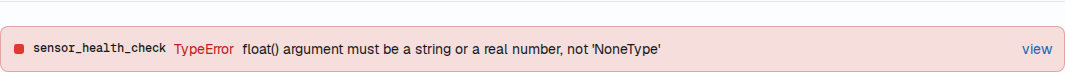
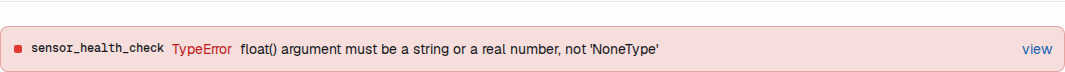
refactor(ui): use shared constants and tokens in the error spotlight (#1728)
## Summary

Mechanical hygiene pass on the app-detail error spotlight, resolving the
four findings from the quality scan of `error-spotlight.tsx`. No
behavior change — the only rendered difference is a 12px → 10px status
dot, matching every other row-level `StatusShape` call site.

## What changed

**Magic number → shared constant.** `SpotlightEntry` passed a raw
`size={12}` to `StatusShape`. All eight other row-level call sites
import `STATUS_DOT_SIZE` (value `10`) from `utils/constants.ts`, and no
commit records the `12` as a deliberate choice for the spotlight context
— so this reconciles the drift rather than naming it as a variant. The
affected doc screenshot
(`docs/_static/web_ui_detail_error_spotlight.png`) is regenerated via
`scripts/capture_screenshots.py --only web_ui_detail_error_spotlight`.

**Duplicated color → CSS custom property.** `color-mix(in srgb,
var(--destructive) 30%, transparent)` appeared verbatim as an inline
Tailwind arbitrary value in two places. It now lives in `global.css` as
`--err-border`, exposed to component code through the shadcn-named alias
`--destructive-border`, alongside the existing `--destructive-bg`. The
issue named `error-banner.tsx` as the second site; that file has since
been refactored to delegate its border to `AlertShell`, so the shared
token is referenced from `alert-shell.tsx` and `error-spotlight.tsx`.
`AlertShell`'s comment explaining why `danger` and `warning` differ in
[…]

Changed region(s): [[0.0, 0.5833, 0.6197, 0.7778]]

diff --git a/frontend/src/components/app-detail/overview-tab.test.tsx b/frontend/src/components/app-detail/overview-tab.test.tsx
@@ -138,8 +138,8 @@ describe("OverviewTab — Error Spotlight", () => {
       createListener({ listener_id: 3, failed: 1 }),
     ];
     const { getAllByTestId, queryByTestId } = renderOverviewTab({ listeners, jobs: [] });
-    expect(getAllByTestId(/^overview-spotlight-entry-/).length).toBe(3);
-    expect(queryByTestId("overview-spotlight-show-more")).toBeNull();
+    expect(getAllByTestId(/^overview-error-spotlight-entry-/).length).toBe(3);
+    expect(queryByTestId("overview-error-spotlight-show-more")).toBeNull();
   });
 
   it("shows 3 expanded entries and a 'show N more' button when more than 3 are failing", () => {
@@ -152,8 +152,8 @@ describe("OverviewTab — Error Spotlight", () => {
     ];
     const { getAllByTestId, getByTestId } = renderOverviewTab({ listeners, jobs: [] });
     // Initially only 3 visible
-    expect(getAllByTestId(/^overview-spotlight-entry-/).length).toBe(3);
-    const btn = getByTestId("overview-spotlight-show-more");
+    expect(getAllByTestId(/^overview-error-spotlight-entry-/).length).toBe(3);
+    const btn = getByTestId("overview-error-spotlight-show-more");
     expect(btn.textContent).toContain("2");
   });
 
@@ -166,9 +166,9 @@ describe("OverviewTab — Error Spotlight", () => {
       createListener({ listener_id: 4, failed: 1 }),
     ];
     const { getAllByTestId, getByTestId } = renderOverviewTab({ listeners, jobs: [] });
-    expect(getAllByTestId(/^overview-spotlight-entry-/).length).toBe(3);
-    await user.click(getByTestId("overview-spotlight-show-more"));
-    expect(getAllByTestId(/^overview-spotlight-entry-/).length).toBe(4);
+    expect(getAllByTestId(/^overview-error-spotlight-entry-/).length).toBe(3);
+    await user.click(getByTestId("overview-error-spotlight-show-more"));
+    expect(getAllByTestId(/^overview-error-spotlight-entry-/).length).toBe(4);
   });
 
   it("links failing listener entry to handlers tab with correct listener ID", () => {
@@ -178,7 +178,7 @@ describe("OverviewTab — Error Spotlight", () => {
       appKey: "my_app",
       instanceQs: "",
     });
-    const entry = getByTestId("overview-spotlight-entry-listener-7");
+    const entry = getByTestId("overview-error-spotlight-entry-listener-7");
     const anchor = entry.querySelector("a");
     expect(anchor).not.toBeNull();
     expect(anchor!.getAttribute("href")).toBe("/apps/my_app/handlers/listener/7");
@@ -191,7 +191,7 @@ describe("OverviewTab — Error Spotlight", () => {
       appKey: "my_app",
       instanceQs: "",
     });
-    const entry = getByTestId("overview-spotlight-entry-job-20");
+    const entry = getByTestId("overview-error-spotlight-entry-job-20");
     const anchor = entry.querySelector("a");
     expect(anchor).not.toBeNull();
     expect(anchor!.getAttribute("href")).toBe("/apps/my_app/handlers/job/20");
@@ -204,7 +204,7 @@ describe("OverviewTab — Error Spotlight", () => {
       appKey: "test_app",
       instanceQs: "?instance=1",
     });
-    const entry = getByTestId("overview-spotlight-entry-listener-3");
+    const entry = getByTestId("overview-error-spotlight-entry-listener-3");
     const anchor = entry.querySelector("a");
     expect(anchor!.getAttribute("href")).toBe("/apps/test_app/handlers/listener/3?instance=1");
   });

diff --git a/frontend/src/components/app-detail/error-spotlight.tsx b/frontend/src/components/app-detail/error-spotlight.tsx
@@ -3,6 +3,7 @@ import { Link } from "wouter";
 
 import { cn } from "@/lib/utils";
 
+import { STATUS_DOT_SIZE } from "../../utils/constants";
 import { StatusShape } from "../shared/status-shape";
 import { OVERVIEW_SECTION_CLASS } from "./overview-section";
 import { handlerHref, itemErrorMessage, itemErrorType } from "./overview-tab-helpers";
@@ -23,11 +24,11 @@ function SpotlightEntry({ item, appKey, instanceQs }: SpotlightEntryProps) {
 
   return (
     <div
-      className="flex items-center gap-2 rounded-md border border-[color-mix(in_srgb,var(--destructive)_30%,transparent)] bg-[var(--destructive-bg)] p-3"
-      data-testid={`overview-spotlight-entry-${item.kind}-${item.id}`}
+      className="flex items-center gap-2 rounded-md border border-[var(--destructive-border)] bg-[var(--destructive-bg)] p-3"
+      data-testid={`overview-error-spotlight-entry-${item.kind}-${item.id}`}
     >
       <span aria-hidden="true">
-        <StatusShape kind={item.statusKind} size={12} />
+        <StatusShape kind={item.statusKind} size={STATUS_DOT_SIZE} />
       </span>
       <span className="shrink-0 whitespace-nowrap font-mono text-[length:var(--text-mono-sm)] font-medium text-foreground">
         {item.name}
@@ -45,15 +46,13 @@ function SpotlightEntry({ item, appKey, instanceQs }: SpotlightEntryProps) {
   );
 }
 
-export function ErrorSpotlight({
-  failingItems,
-  appKey,
-  instanceQs,
-}: {
+interface ErrorSpotlightProps {
   failingItems: UnifiedItem[];
   appKey: string;
   instanceQs: string;
-}) {
+}
+
+export function ErrorSpotlight({ failingItems, appKey, instanceQs }: ErrorSpotlightProps) {
   const [expanded, setExpanded] = useState(false);
 
   const visibleItems = expanded ? failingItems : failingItems.slice(0, SPOTLIGHT_LIMIT);
@@ -72,7 +71,7 @@ export function ErrorSpotlight({
         <button
           type="button"
           className="px-3 py-2 text-left text-sm text-muted-foreground hover:text-foreground"
-          data-testid="overview-spotlight-show-more"
+          data-testid="overview-error-spotlight-show-more"
           onClick={() => setExpanded(true)}
         >
           show {hiddenCount} more

diff --git a/frontend/src/components/shared/alert-shell.tsx b/frontend/src/components/shared/alert-shell.tsx
@@ -5,12 +5,13 @@ import { cn } from "@/lib/utils";
 /** Semantic tone of a banner — selects the destructive or warning token pair. */
 export type AlertTone = "danger" | "warning";
 
-// The two tones intentionally differ in border treatment: `danger` softens `--destructive` to 30%
-// so a full-width error block doesn't read as a hard red rule, while `warning` uses
-// `--status-warning` at full strength. Both are carried over verbatim from the call sites this
-// shell replaced — a new tone should pick whichever reads better, not copy either by default.
+// The two tones intentionally differ in border treatment: `danger` uses `--destructive-border`
+// (global.css aliases it to `--err-border`, which is `--err` at 30% alpha) so a full-width error
+// block doesn't read as a hard red rule, while `warning` uses `--status-warning` at full
+// strength. Both are carried over verbatim from the call sites this shell replaced — a new tone
+// should pick whichever reads better, not copy either by default.
 const TONE_CLASSES: Record<AlertTone, string> = {
-  danger: "border-[color:color-mix(in_srgb,var(--destructive)_30%,transparent)] bg-[var(--destructive-bg)]",
+  danger: "border-[var(--destructive-border)] bg-[var(--destructive-bg)]",
   warning: "border-[var(--status-warning)] bg-[var(--status-warning-bg)]",
 };
 

diff --git a/frontend/src/global.css b/frontend/src/global.css
@@ -79,6 +79,10 @@
   --warn-bg: #f5eedd;
   --err: oklch(0.514 0.19 28);
   --err-bg: #f5dedc;
+  /* Declared here only, like --job-border/--listener-border below. var() resolves lazily
+     against the consuming element, and [data-theme="dark"] sets --err on the same element
+     :root matches, so this already tracks the dark palette — do not duplicate it there. */
+  --err-border: color-mix(in srgb, var(--err) 30%, transparent);
   --cancel: oklch(0.515 0.108 237);
   --mute: #9097a0;
   --mute-bg: #eff0ec;
@@ -249,6 +253,7 @@
   --status-warning: var(--warn);
   --status-warning-bg: var(--warn-bg);
   --destructive-bg: var(--err-bg);
+  --destructive-border: var(--err-border);
   --status-cancel: var(--cancel);
   --status-muted: var(--mute);
   --status-muted-bg: var(--mute-bg);
